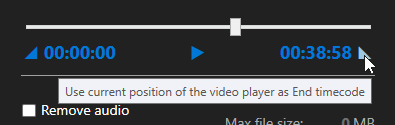
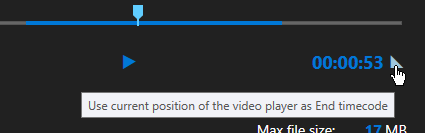
updated changelog, features and screenshots after the release of 1.1.0

diff --git a/documentation/releases.md b/documentation/releases.md
@@ -5,7 +5,16 @@ All Video Trimmer releases can be downloaded from [GitHub](https://github.com/re
 * [**Click here to download the latest version of Video Trimmer**](https://github.com/rendeer-pl/VideoTrimmer/releases/latest/download/VideoTrimmer.exe),
 * Previous releases can be downloaded from the [Releases](https://github.com/rendeer-pl/VideoTrimmer/releases/) page on GitHub.
 
-## 1.0.0.211026
+## Change Logs
+
+### 1.1.0.220605
+* Enabled support for MKV files,
+* Fixed positioning of UI elements, which makes it possible to resize the main window. The default size has been increased to properly accommodate 16:9 videos,
+* The visuals of the timeline have been reworked, and now it includes a preview of the trim range,
+* There's a new "About" button which opens a separate window with details of the version, license, links to the website and a button to check for updates,
+* Small bugfixes and visual improvements.
+
+### 1.0.0.211026
 * Refreshed UI,
 * New icon,
 * Fixed timeline behavior on video end,
@@ -13,57 +22,57 @@ All Video Trimmer releases can be downloaded from [GitHub](https://github.com/re
 * Fixed FFMPEG download link,
 * Under the hood improvements.
 
-## 0.2.8.200218
+### 0.2.8.200218
 * Added a video player with visual timecode picker,
 * "Handler_name" metadata is now be cleared in each trimmed file,
 * Fixed a bug that caused trimming to fail if calculated bitrate contained a decimal point,
 * Fixed a bug where dragging an unsupported file didn't make the window's background red,
 * Added protection for unexpected FFmpeg output.
 
-## 0.2.7.200218
+### 0.2.7.200218
 * Fixed a bug that caused trimming to fail in some cases when the file was opened through Windows context menus.
 
-## 0.2.6.200217
+### 0.2.6.200217
 * UI readability improvements,
 * Added support for taskbar progress indicator,
 * Added support for opening files through Windows context menus ("Open with...").
 
-## 0.2.5.200210
+### 0.2.5.200210
 * Improvements to window position management.
 
-## 0.2.4.200209
+### 0.2.4.200209
 * When recompressing videos, the progress bar now displays actual progress,
 * Add option to make the file size fit under a certain MB limit,
 * Fixed a bug that caused the app to crash if user tried to drag and drop anything other than a file.
 
-## 0.2.3.200101
+### 0.2.3.200101
 * Added support for .avi files,
 * Fixed a bug that caused filenames to include the extension twice,
 * Fixed a bug that caused the file selection to be cleared when cancelling the File Picker dialog.
 
-## 0.2.2.190530
+### 0.2.2.190530
 * Fixed a crash that occured when trying to copy console command after trimming,
 * Aborting an operation now actually closes the underlying FFmpeg process,
 * Audio file duration is now properly formatted in the "End" input field,
 * New app icon for improved readability on Windows taskbar.
 
-## 0.2.1.190529
+### 0.2.1.190529
 * Added option to recompress video, allowing for greater precision when trimming videos with low keyframe density,
 * Added new progress window,
 * Added new button to copy the FFmpeg command to clipboard,
 * Added support for more video and audio formats.
 
-## 0.2.0.190518
+### 0.2.0.190518
 * Added notification when trimming fails,
 * Notification waits for trimming to end, so the explorer window should always point to right file,
 * Added option to remove sound from trimmed video.
 
-## 0.1.3.190516
+### 0.1.3.190516
 * Added support for dropping files from explorer.
 
-## 0.1.2.190512
+### 0.1.2.190512
 * Blocked input fields when a file has not been picked up yet,
 * Added input validation on changing focus.
 
-## 0.1.1.190511
+### 0.1.1.190511
 * Initial functionality.

diff --git a/documentation/overview/feature_list.md b/documentation/overview/feature_list.md
@@ -20,4 +20,4 @@
 ## Supported File Extensions
 | Video | Audio |
 |:---:|:---:|
-|.mp4<br/>.mpg<br/>.mpeg<br/>.wmv<br/>.avi<br/>.mov<br/>.mts<br/>.m2ts<br/>.vob|.mp3<br/>.wav<br/>.aiff|
+|.mp4<br/>.mkv<br/>.mpg<br/>.mpeg<br/>.wmv<br/>.avi<br/>.mov<br/>.mts<br/>.m2ts<br/>.vob|.mp3<br/>.wav<br/>.aiff|
